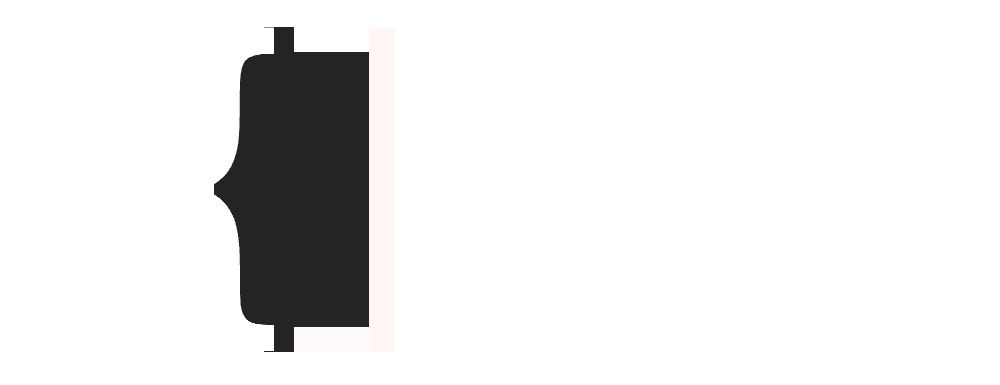
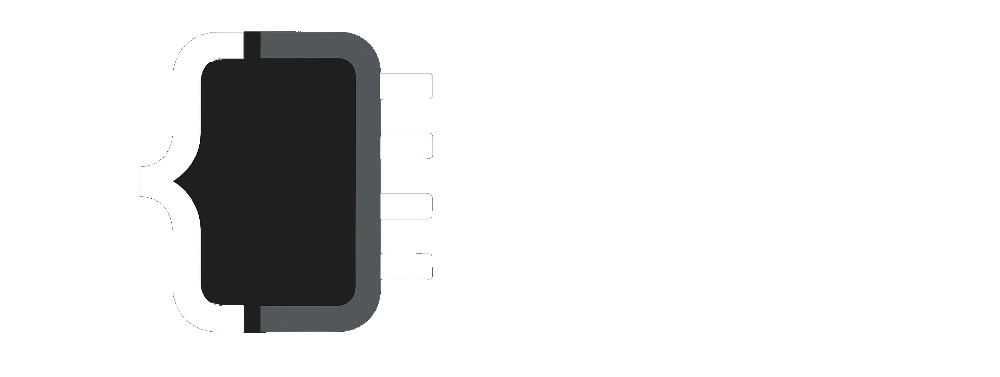
Changes, little details

Changed region(s): [[0.155, 0.0584, 0.403, 0.9337]]

diff --git a/src/App.jsx b/src/App.jsx
@@ -165,7 +165,7 @@ schema: {}}
 
     const [current, setCurrent] = useState(0);
 
-    const [appConfig,setAppConfig] = useState({theme: 'haze' });
+    const [appConfig,setAppConfig] = useState({theme: 'night' });
 
     const [settings, setSettings] = useState([
         {

diff --git a/src/App.css b/src/App.css
@@ -225,7 +225,8 @@
 
 }
 .editor:hover{
-  padding: 5px;
+  padding: 10px;
+  margin-top: -10px;
 }
 
 .editor .files{
@@ -351,7 +352,8 @@ textarea {
 
 }
 .breadboard:hover{
-  padding: 5px;
+  padding: 10px;
+  margin-top: -10px;
 }
 
 .breadboard .stats{
